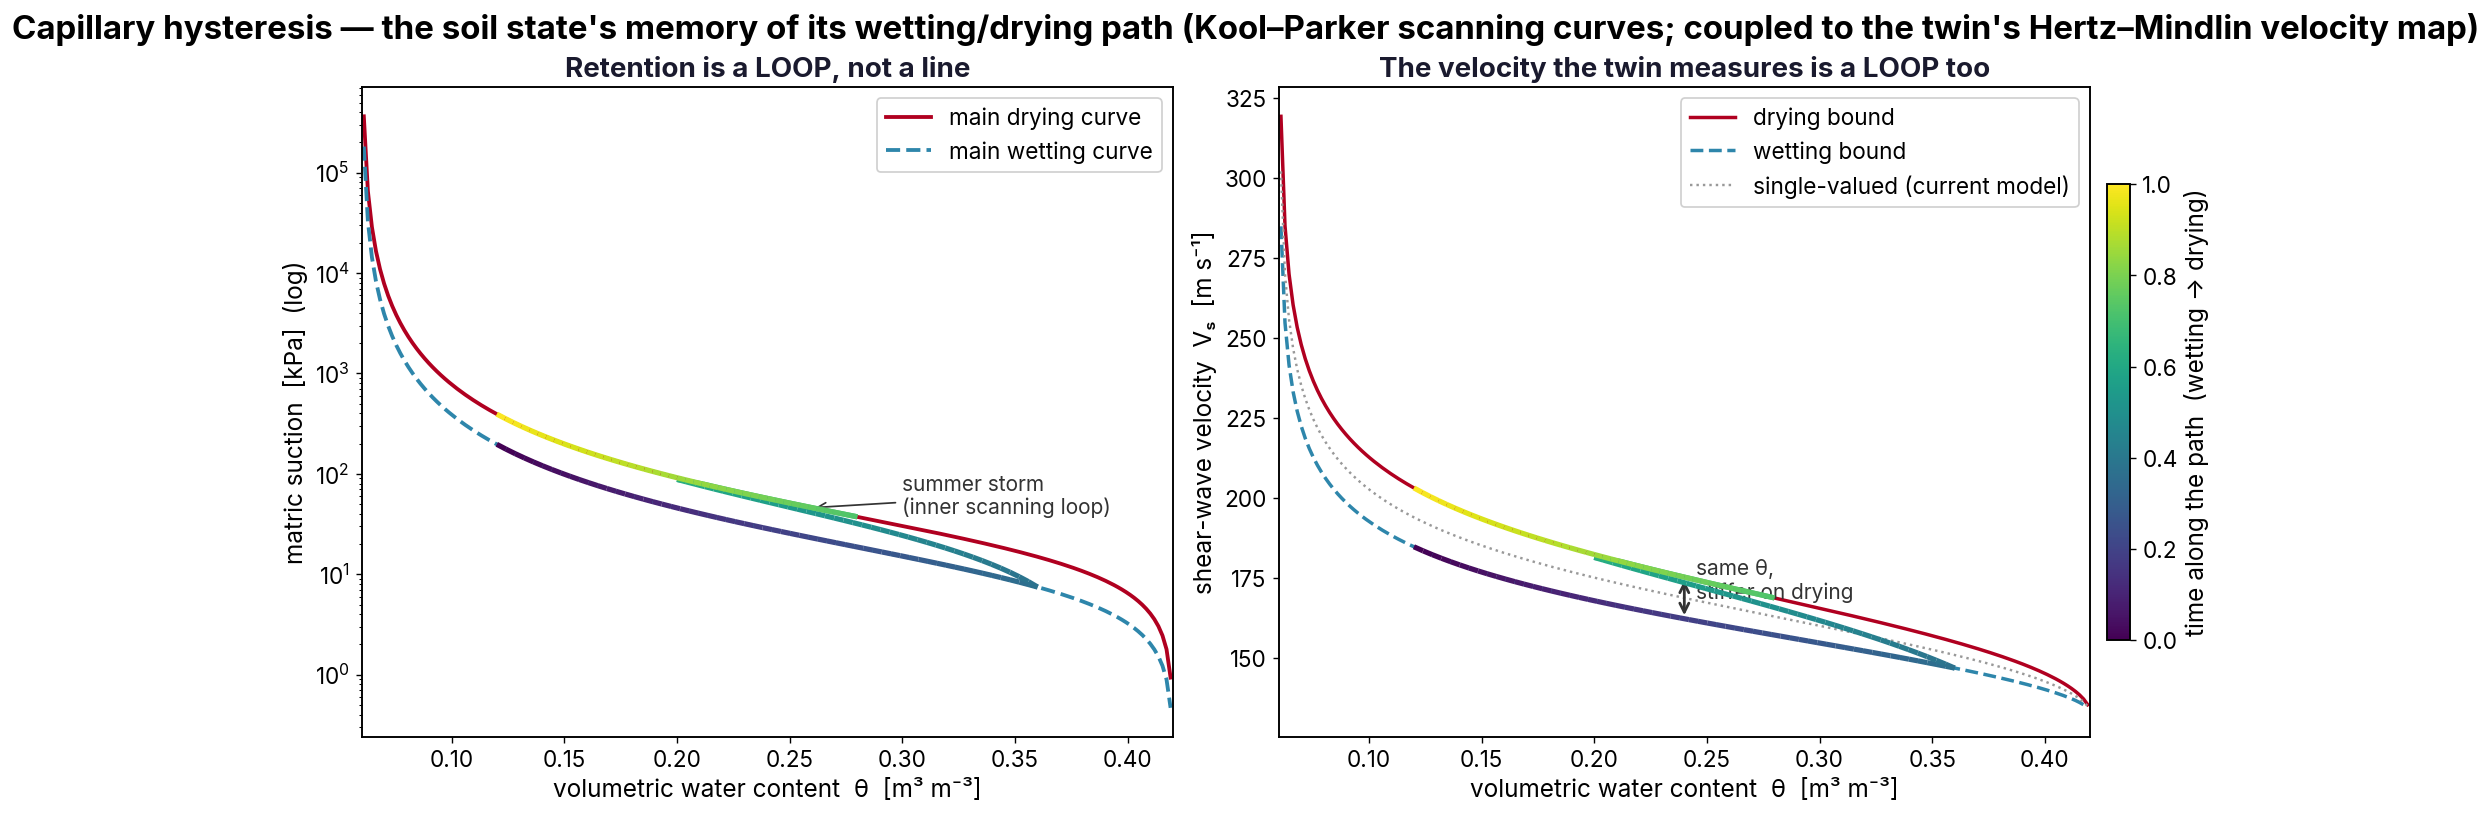
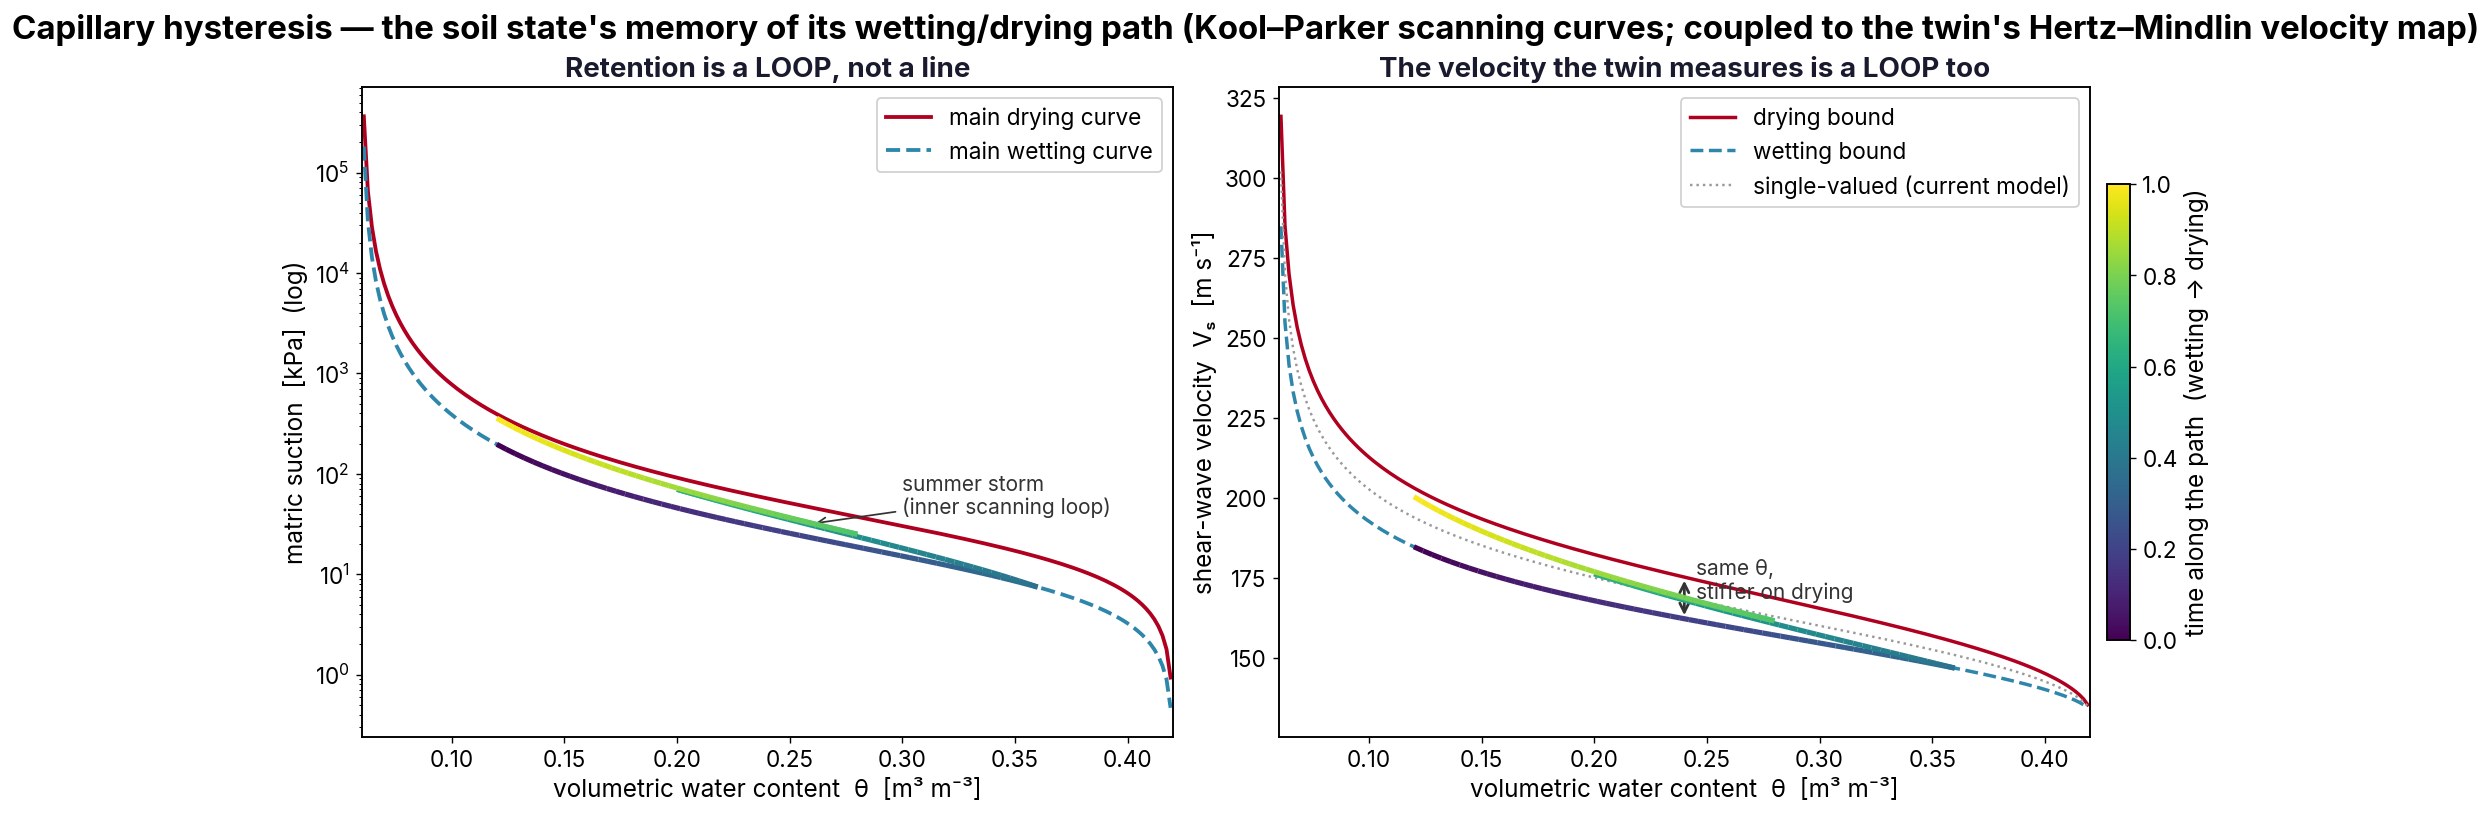
feat(memory): route capillary hysteresis through the integrator — closes #120
Carry the wetting/drying reversal-point memory along the INTEGRATED moisture
trajectory so the vadose dv/v is path-dependent, not a single-valued map off a
fixed reference.

- hysteresis.py: hysteretic_suction_field() — the vectorised, per-cell trajectory
  stepper the integrator needs (reversal memory carried across the time loop,
  vectorised over the grid); vadose_dvv_hysteretic() — a drop-in for the single-
  valued dvv_high, evaluating V_s on the hysteretic suction along the path.
- forecast.py: forecast_soil_state gains hysteresis=True (default). The vadose band
  now uses vadose_dvv_hysteretic over wb.theta; the saturated band is unchanged.
- Fixed the scanning-curve law: interpolate in the normalised position lambda in
  [0,1] between the wetting/drying bounds (lambda decays to the target bound as Se
  moves) instead of a fixed suction offset that overshot the drying bound and got
  clipped to it — that clipping had made the wetting limb invisible.
- tests: the trajectory field carries memory and vectorises independently over
  cells; end-to-end, hysteresis on vs off changes the forecast's vadose dv/v while
  the vadose band still dominates the saturated one. Existing forecast tests still
  pass with hysteresis on by default.

Regenerated the hysteresis demo (clearer loops) and the twin GIF (hysteresis-aware
dv/v panel). Chapter status: hysteresis done.

Changed region(s): [[0.5562, 0.5835, 0.7725, 0.8292], [0.1854, 0.5221, 0.3708, 0.6757], [0.3708, 0.6757, 0.4017, 0.7064]]

diff --git a/src/models/hysteresis.py b/src/models/hysteresis.py
@@ -25,7 +25,15 @@ from dataclasses import dataclass
 import numpy as np
 from numpy.typing import ArrayLike, NDArray
 
-from src.models.dvv_coupling import G_REF, N_EXP, P_REF, RHO_GRAIN, RHO_W, SIGMA0
+from src.models.dvv_coupling import (
+    G_REF,
+    N_EXP,
+    P_REF,
+    RHO_GRAIN,
+    RHO_W,
+    SIGMA0,
+    CouplingEnvelope,
+)
 
 WETTING_RATIO = 2.0        # alpha_w / alpha_d: wetting air-entry scale (Kool-Parker default ~2)
 _SE_LO, _SE_HI = 1e-3, 1.0 - 1e-6
@@ -89,15 +97,75 @@ def hysteretic_suction(se_path: ArrayLike, alpha_d: float, n: float,
             d = cur
         if d != cur:                                  # reversal: re-anchor at the previous point
             se_r, h_r, cur = float(se[i - 1]), float(h[i - 1]), d
-        if cur == "d":                                # heading to the drying bound as Se falls
-            g = np.clip(se[i] / se_r, 0.0, 1.0)
-            hi = hd(se[i]) + (h_r - hd(se_r)) * g
-        else:                                         # heading to the wetting bound as Se rises
-            g = np.clip((1.0 - se[i]) / max(1.0 - se_r, 1e-9), 0.0, 1.0)
-            hi = hw(se[i]) + (h_r - hw(se_r)) * g
-        h[i] = float(np.clip(hi, hw(se[i]), hd(se[i])))
+        # interpolate in the NORMALISED position lambda in [0,1] between the wetting (0) and drying (1)
+        # bounds. lambda_r locates the reversal in the gap; it decays toward the target bound as Se
+        # moves, which keeps the curve within the bounds by construction (no clipping / overshoot).
+        hdr, hwr = float(hd(se_r)), float(hw(se_r))
+        lam_r = float(np.clip((h_r - hwr) / max(hdr - hwr, 1e-12), 0.0, 1.0))
+        if cur == "d":                                # -> drying bound (lambda -> 1) as Se falls
+            lam = 1.0 - (1.0 - lam_r) * float(np.clip(se[i] / se_r, 0.0, 1.0))
+        else:                                         # -> wetting bound (lambda -> 0) as Se rises
+            lam = lam_r * float(np.clip((1.0 - se[i]) / max(1.0 - se_r, 1e-9), 0.0, 1.0))
+        h[i] = float(hw(se[i]) + lam * (hd(se[i]) - hw(se[i])))
         states.append(ScanState(se_r, h_r, cur))
     return h, states
+
+
+def hysteretic_suction_field(se: ArrayLike, alpha_d: ArrayLike, n: ArrayLike,
+                             wetting_ratio: float = WETTING_RATIO, start: str = "drying"
+                             ) -> NDArray[np.float64]:
+    """Vectorised trajectory version of :func:`hysteretic_suction` — the form the integrator needs.
+
+    ``se`` is ``(T, ...)`` with time on axis 0 and any grid shape after it; ``alpha_d`` and ``n`` are
+    scalars or per-cell arrays broadcasting against ``se[t]``. The reversal-point memory is carried
+    **per cell** across the time loop, so a cell that reaches a given saturation by drying gets a
+    different suction than one that reaches it by wetting. Returns suction shaped like ``se``.
+    """
+    se = np.clip(np.asarray(se, dtype="float64"), _SE_LO, _SE_HI)
+    alpha_d = np.asarray(alpha_d, dtype="float64")
+    n = np.asarray(n, dtype="float64")
+    alpha_w = wetting_ratio * alpha_d
+    hd = lambda s: vg_suction(s, alpha_d, n)          # noqa: E731
+    hw = lambda s: vg_suction(s, alpha_w, n)          # noqa: E731
+
+    h = np.empty_like(se)
+    cur = np.full(se.shape[1:], 1 if start == "drying" else -1, dtype="int8")   # +1 dry, -1 wet
+    se_r = se[0].copy()
+    h_r = np.where(cur == 1, hd(se[0]), hw(se[0]))
+    h[0] = h_r
+    for t in range(1, se.shape[0]):
+        d = np.where(se[t] < se[t - 1] - 1e-12, 1,
+                     np.where(se[t] > se[t - 1] + 1e-12, -1, cur)).astype("int8")
+        rev = d != cur
+        se_r = np.where(rev, se[t - 1], se_r)
+        h_r = np.where(rev, h[t - 1], h_r)
+        cur = d
+        hdr, hwr = hd(se_r), hw(se_r)
+        lam_r = np.clip((h_r - hwr) / np.maximum(hdr - hwr, 1e-12), 0.0, 1.0)
+        lam_dry = 1.0 - (1.0 - lam_r) * np.clip(se[t] / se_r, 0.0, 1.0)
+        lam_wet = lam_r * np.clip((1.0 - se[t]) / np.maximum(1.0 - se_r, 1e-9), 0.0, 1.0)
+        lam = np.where(cur == 1, lam_dry, lam_wet)
+        h[t] = hw(se[t]) + lam * (hd(se[t]) - hw(se[t]))
+    return h
+
+
+def vadose_dvv_hysteretic(theta_traj: ArrayLike, env: CouplingEnvelope,
+                          wetting_ratio: float = WETTING_RATIO, start: str = "drying"
+                          ) -> NDArray[np.float64]:
+    """Vadose-band dv/v along a moisture trajectory, WITH hysteresis memory.
+
+    Drop-in replacement for the ``dvv_high`` that ``dvv_coupling.forward_dvv`` computes single-valued:
+    ``dvv_high[t] = (V_s^{hyst}(t) - V_s^{hyst}(0)) / V_s^{hyst}(0)``, where the velocity is evaluated on
+    the hysteretic suction carried along the integrated trajectory. ``theta_traj`` is ``(T, ...)``.
+    """
+    theta = np.asarray(theta_traj, dtype="float64")
+    theta_r = np.asarray(env.theta_wp, dtype="float64")
+    phi = np.asarray(env.theta_sat, dtype="float64")
+    se = np.clip((theta - theta_r) / np.maximum(phi - theta_r, 1e-6), _SE_LO, _SE_HI)
+    suction = hysteretic_suction_field(se, env.vg_alpha, env.vg_n, wetting_ratio, start)
+    vs = vs_from_suction(theta, se, suction, phi)                 # (T, ...)
+    vs0 = vs[0]
+    return ((vs - vs0) / np.where(vs0 > 0, vs0, np.nan))
 
 
 def vs_from_suction(theta: ArrayLike, se: ArrayLike, suction_kpa: ArrayLike,

diff --git a/tests/test_hysteresis.py b/tests/test_hysteresis.py
@@ -73,10 +73,49 @@ def test_reversal_resets_the_memory_anchor():
     assert flips >= 2, "at least two reversals expected on a wet-dry-wet path"
 
 
+def test_trajectory_field_carries_memory_over_the_integrated_path():
+    # The vectorised stepper the water budget uses: a wet-then-dry path must give DIFFERENT suction at
+    # the same Se depending on which limb it is on — path memory, carried per cell.
+    from src.models.hysteresis import hysteretic_suction_field
+    se = _wet_then_dry()[:, None]                     # (T, 1 cell)
+    h = hysteretic_suction_field(se, ALPHA_D, N, start="wetting")
+    half = len(se) // 2
+    i = int(np.argmin(np.abs(se[:half, 0] - 0.55)))
+    j = half + int(np.argmin(np.abs(se[half:, 0] - 0.55)))
+    assert h[j, 0] > h[i, 0] + 1e-3
+    # vectorises over cells independently: one cell wets-then-dries, the other dries-then-wets, so at
+    # a given time they sit on opposite limbs and their suctions differ.
+    c0 = np.concatenate([np.linspace(0.30, 0.85, 40), np.linspace(0.85, 0.30, 40)])
+    c1 = np.concatenate([np.linspace(0.85, 0.30, 40), np.linspace(0.30, 0.85, 40)])
+    two = np.stack([c0, c1], axis=1)                  # (T, 2)
+    hh = hysteretic_suction_field(two, ALPHA_D, N, start="drying")
+    assert hh.shape == two.shape and np.nanmax(np.abs(hh[:, 0] - hh[:, 1])) > 1e-3
+
+
+def test_forecast_dvv_is_path_dependent_when_hysteresis_on():
+    # End-to-end: through forecast_soil_state, hysteresis makes the vadose dv/v differ from the
+    # single-valued map on a wet-then-dry storm (same water budget, different observable).
+    from src.models.forecast import ForecastForcing, forecast_soil_state
+    n = 80
+    rain = np.zeros(n); rain[5:25] = 12.0             # a storm: wet up then dry out
+    t = np.arange("2025-11-01", np.datetime64("2025-11-01") + n, dtype="datetime64[D]")
+    kw = dict(theta_wp=0.10, theta_fc=0.28, theta_sat=0.42, vs30_base=350.0, wt_depth0_m=5.0,
+              root_depth_m=1.0)
+    f = ForecastForcing(times=t, precip_mm=rain, pet_mm=np.full(n, 1.5), dt_days=1.0, source="test")
+    hy = forecast_soil_state(f, hysteresis=True, **kw)
+    sv = forecast_soil_state(f, hysteresis=False, **kw)
+    assert hy.dvv_high.shape == sv.dvv_high.shape
+    assert np.nanmax(np.abs(hy.dvv_high - sv.dvv_high)) > 1e-4, "hysteresis must change the vadose dv/v"
+    # sanity preserved: vadose band still dominates the saturated band
+    assert np.abs(hy.dvv_high).max() > 5.0 * np.abs(hy.dvv_low).max()
+
+
 if __name__ == "__main__":
     test_drying_bound_holds_more_suction_than_wetting_at_equal_saturation()
     test_the_loop_opens_on_a_wet_then_dry_path()
     test_velocity_shows_the_same_loop_the_observable()
     test_no_hysteresis_when_ratio_is_one()
     test_reversal_resets_the_memory_anchor()
+    test_trajectory_field_carries_memory_over_the_integrated_path()
+    test_forecast_dvv_is_path_dependent_when_hysteresis_on()
     print("all hysteresis tests passed")

diff --git a/src/models/forecast.py b/src/models/forecast.py
@@ -133,7 +133,7 @@ def liquid_input(forcing, ddf_mm_c_day=DDF_MM_C_DAY, t_snow_hi=T_SNOW_HI,
 
 def forecast_soil_state(forcing, theta_wp, theta_fc, theta_sat, vs30_base, wt_depth0_m,
                         sand_pct=None, clay_pct=None, root_depth_m=1.0, slope_tan=None,
-                        **budget_kw):
+                        hysteresis=True, **budget_kw):
     """Drive the coupled water budget from a rainfall forecast and map it onto Vs30.
 
     ``theta_*`` and ``vs30_base`` / ``wt_depth0_m`` are the static envelope + baseline state on the
@@ -164,7 +164,14 @@ def forecast_soil_state(forcing, theta_wp, theta_fc, theta_sat, vs30_base, wt_de
     dtw_anom = wb.wt_depth_m - wt_ref                          # +ve = table deeper than baseline
 
     d = forward_dvv(dtw_anom, wb.theta, theta_ref, env)
-    dvv_low, dvv_high = d["dvv_low"], d["dvv_high"]
+    dvv_low = d["dvv_low"]
+    if hysteresis:
+        # carry the wetting/drying reversal memory along the INTEGRATED θ trajectory (#120): the same θ
+        # reached by drying vs wetting yields a different vadose velocity, so dv/v is path-dependent.
+        from src.models.hysteresis import vadose_dvv_hysteretic
+        dvv_high = vadose_dvv_hysteretic(wb.theta, env).astype("float32")
+    else:
+        dvv_high = d["dvv_high"]
 
     # first-order travel-time weighting of the top 30 m: the vadose root zone carries d/30 of the
     # column, the saturated material below carries the rest.